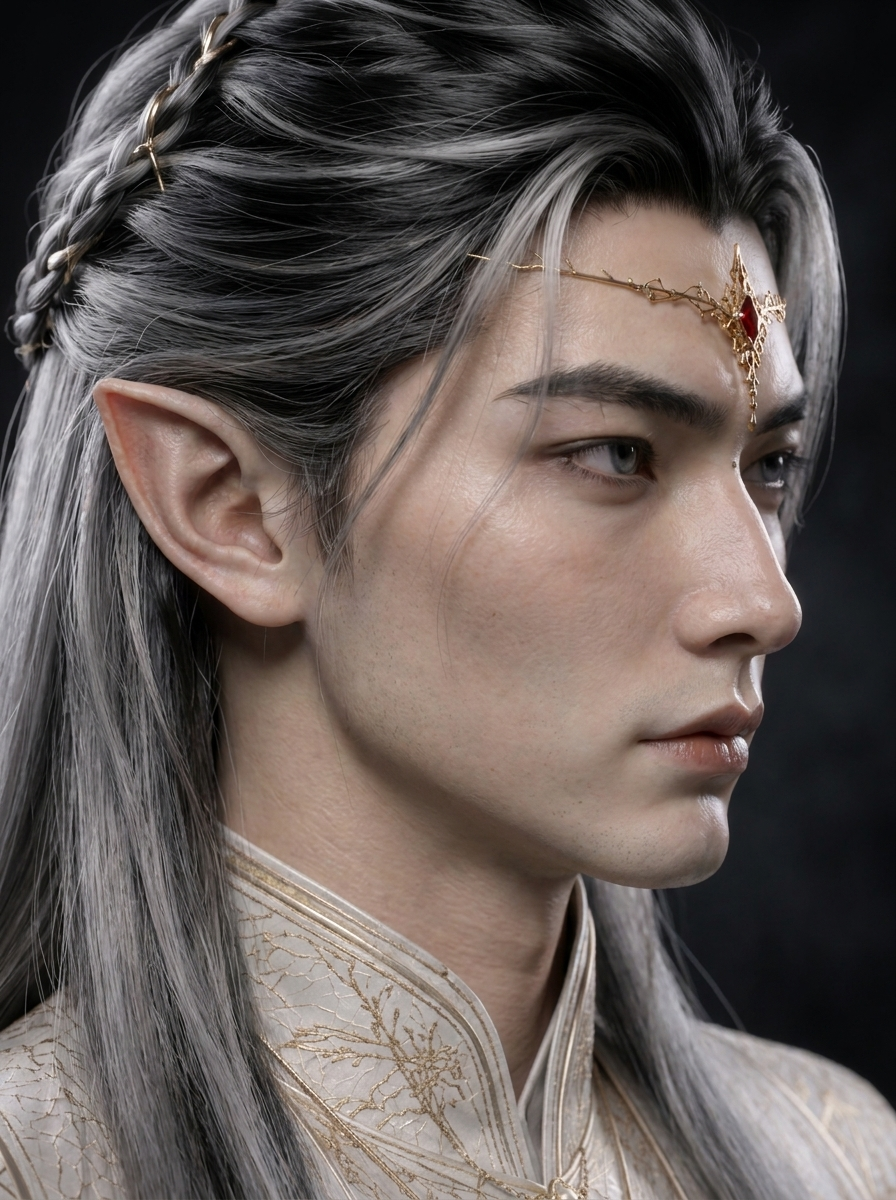
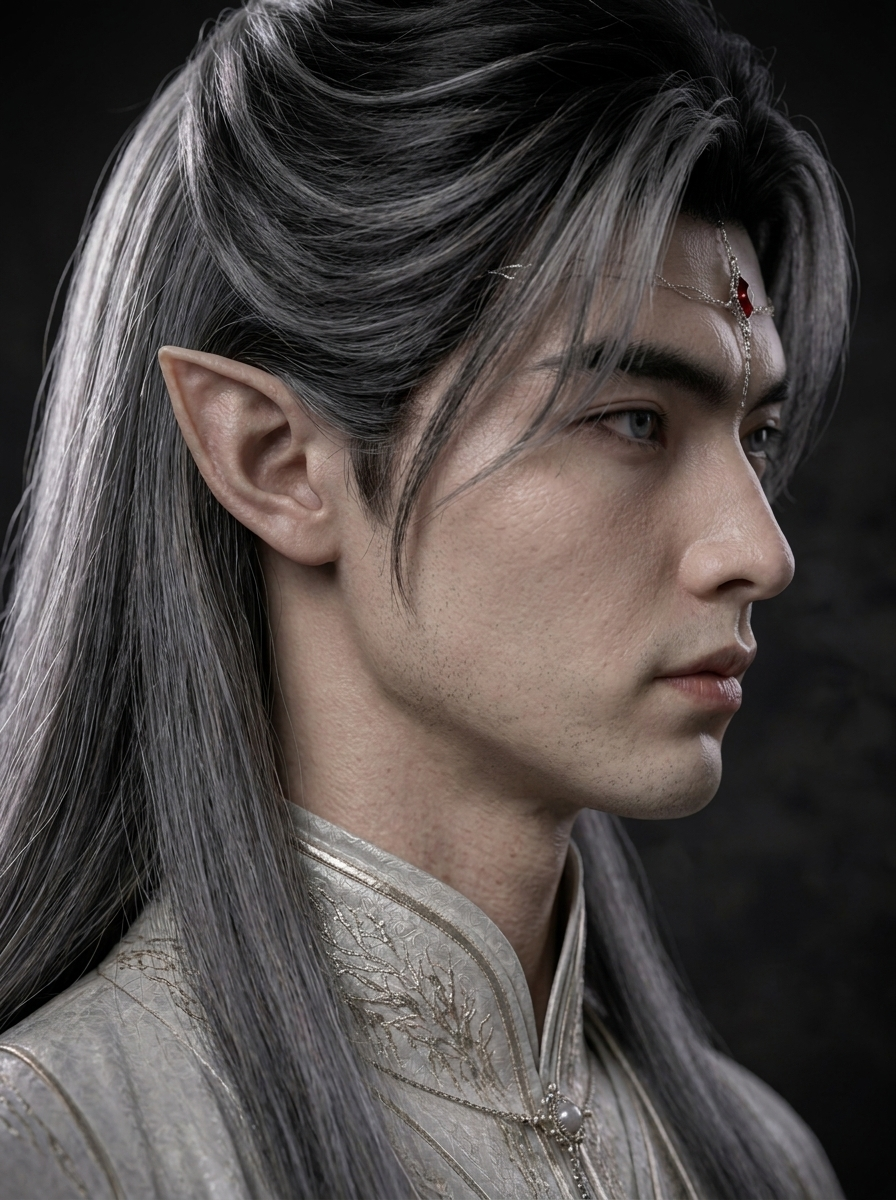
王玄晏祭服替换为27张新版（面部7+造型4+表情12+整体4），总268图

diff --git a/index.html b/index.html
@@ -211,7 +211,7 @@ body{background:#0a0a14;color:#ede4d4;font-family:"PingFang SC","Noto Serif SC",
 <header class="hero">
 <p class="ep-title">狐祖归来 · EP01</p>
 <h1>狐 祖 归 来</h1>
-<p class="subtitle">雪娘 · 临渊 · 玄晏 · 阿檀 造型图集 · 二百六十九图</p>
+<p class="subtitle">雪娘 · 临渊 · 玄晏 · 阿檀 造型图集 · 二百六十八图</p>
 </header>
 
 <!-- ═══════ 狐族常态圣经 ═══════ -->
@@ -711,7 +711,7 @@ body{background:#0a0a14;color:#ede4d4;font-family:"PingFang SC","Noto Serif SC",
 </div>
 </div>
 
-<div class="footer">狐祖归来 · 雪娘 · 临渊 · 玄晏 · 阿檀 · 王嵩 · 青禾 · 巡卫 · 统领 · 狐侍 · 二百六十九造型图</div>
+<div class="footer">狐祖归来 · 雪娘 · 临渊 · 玄晏 · 阿檀 · 王嵩 · 青禾 · 巡卫 · 统领 · 狐侍 · 二百六十八造型图</div>
 
 </div><!-- /.main-wrapper -->
 
@@ -966,7 +966,6 @@ const scenes=[
 {file:"祭服_狐祖归来_王玄晏祭服_背面全身.png",name:"祭服 · 背面全身",script:"祭服全身背面——长袍拖尾，白狐尾迹般的袍摆",section:"⛩ 祭服全身"},
 {file:"祭服_狐祖归来_王玄晏祭服_侧面全身.png",name:"祭服 · 侧面全身",script:"祭服全身侧面——礼袍垂直线条，如白刃插于祭坛",section:"⛩ 祭服全身"},
 {file:"祭服_狐祖归来_王玄晏祭服_动态站姿.png",name:"祭服 · 动态站姿",script:"祭服动态——礼剑在手，迎接天命的仪式姿态",section:"⛩ 祭服全身"},
-{file:"祭服_狐祖归来_王玄晏祭服_特写细节.png",name:"祭服 · 特写细节",script:"祭服细节——金色额饰红宝石、血脉纹章、白玉腰封、礼剑金柄长穗",section:"⛩ 祭服全身"},
 {file:"祭服_狐祖归来_王玄晏祭服_默认状态.png",name:"祭服 · 默认状态",script:"祭服默认——祭礼前的沉静威严",section:"😶 祭服表情"},
 {file:"祭服_狐祖归来_王玄晏祭服_轻微微笑.png",name:"祭服 · 轻微微笑",script:"祭服轻微微笑——礼成之时的浅淡笑意",section:"😶 祭服表情"},
 {file:"祭服_狐祖归来_王玄晏祭服_愤怒.png",name:"祭服 · 愤怒",script:"祭服愤怒——祖灵受辱的雷霆怒意",section:"😶 祭服表情"},
